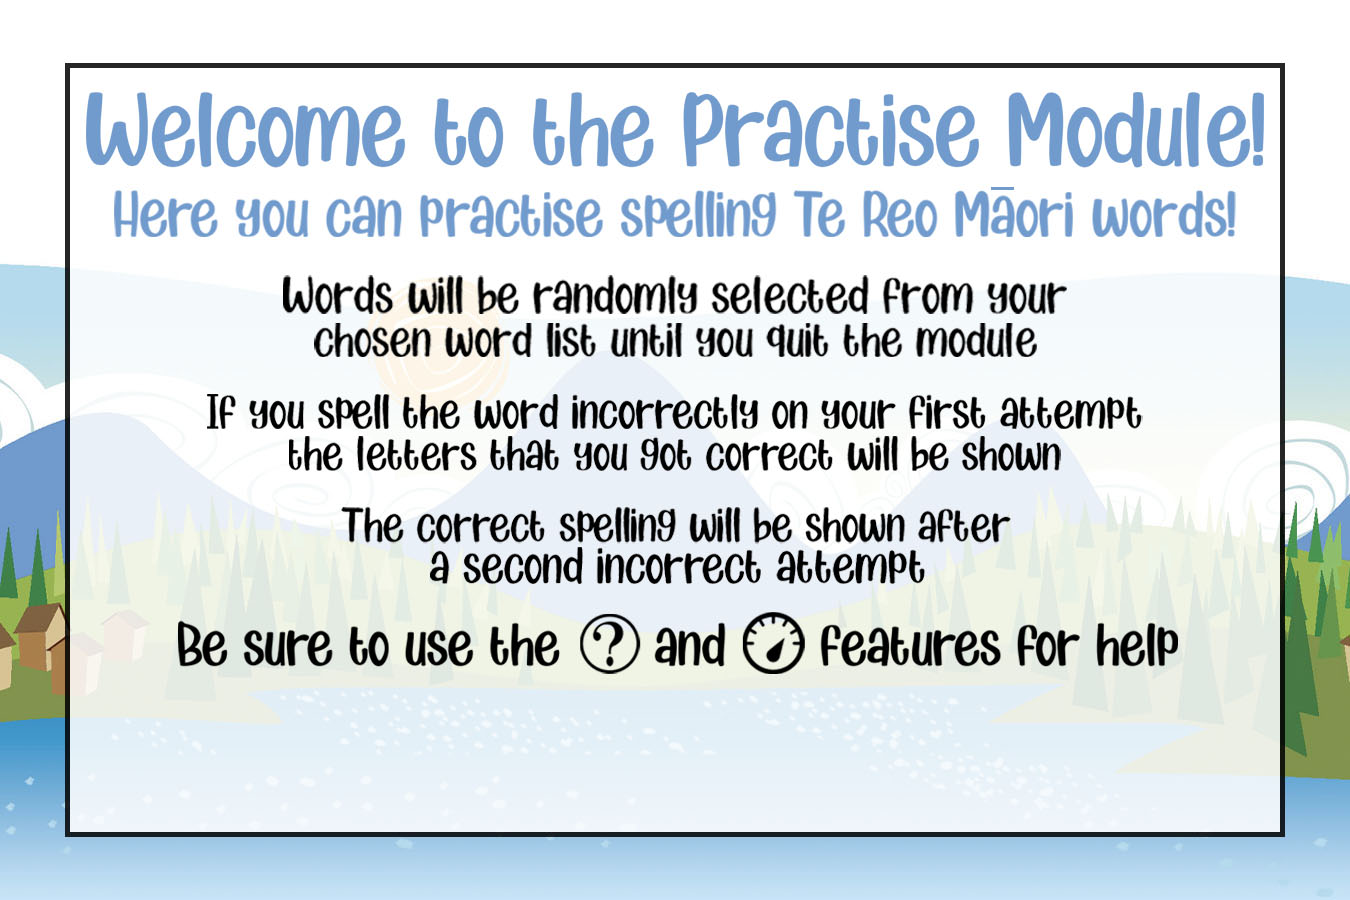
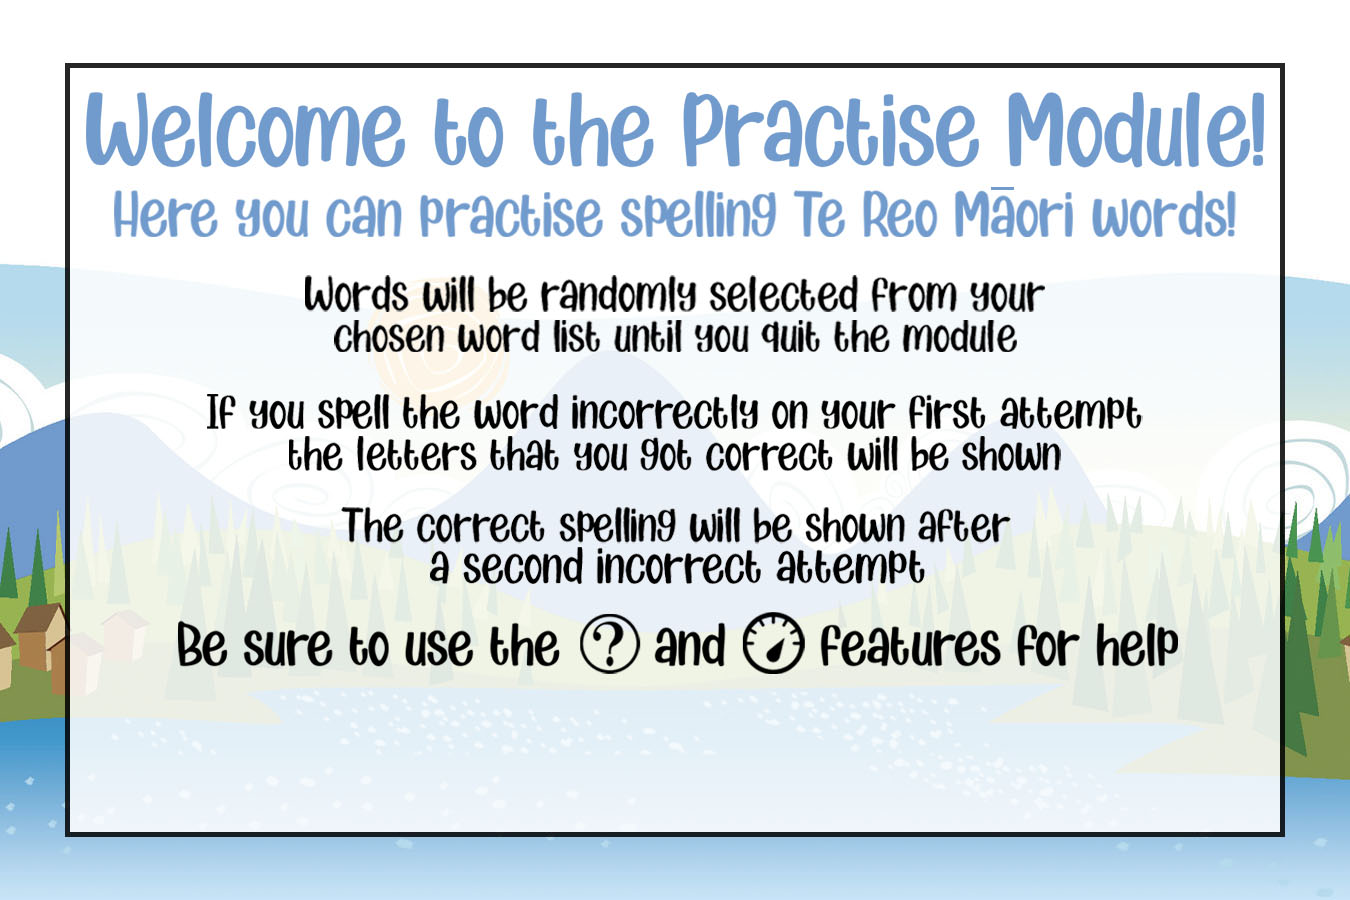
Added translation of practise module instructins and help window

Changed region(s): [[0.1867, 0.3111, 0.8089, 0.4044]]

diff --git a/SpellingWiz/src/application/GamesModule.java b/SpellingWiz/src/application/GamesModule.java
@@ -1,6 +1,7 @@
 package application;
 
 import java.io.IOException;
+
 import java.net.MalformedURLException;
 import java.util.ArrayList;
 import java.util.Timer;
@@ -8,9 +9,6 @@ import java.util.TimerTask;
 
 import javafx.animation.TranslateTransition;
 import javafx.application.Platform;
-import javafx.beans.binding.Bindings;
-import javafx.beans.property.Property;
-import javafx.beans.property.SimpleStringProperty;
 import javafx.event.EventHandler;
 import javafx.fxml.FXML;
 import javafx.fxml.FXMLLoader;
@@ -318,6 +316,7 @@ public class GamesModule extends Controller {
 			helpWindow.setVisible(false);
 		} else {
 			helpOpen = true;
+			helpWindow.setImage(new Image("./helpWindow"+langExt+".jpg"));
 			helpWindow.setVisible(true);
 		}
 	}

diff --git a/SpellingWiz/src/application/PractiseModule.java b/SpellingWiz/src/application/PractiseModule.java
@@ -80,6 +80,7 @@ public class PractiseModule extends Controller {
 		exitSkip(event);
 		exitStart(event);
 		exitSubmit(event);
+		instruction.setImage(new Image("./practiseInstructions"+langExt+".jpg"));
 	}
 
 	public void selectHelp(MouseEvent event) {
@@ -88,6 +89,7 @@ public class PractiseModule extends Controller {
 			helpWindow.setVisible(false);
 		} else {
 			helpOpen = true;
+			helpWindow.setImage(new Image("./helpWindow"+langExt+".jpg"));
 			helpWindow.setVisible(true);
 		}
 	}

diff --git a/SpellingWiz/src/application/Sound.java b/SpellingWiz/src/application/Sound.java
@@ -6,6 +6,7 @@ import javafx.scene.media.Media;
 import javafx.scene.media.MediaPlayer;
 
 public class Sound {
+
 	public static void playSound(String sound){
 	    URL file = CategorySelection.class.getClassLoader().getResource(sound);
 	    final Media media = new Media(file.toString());
